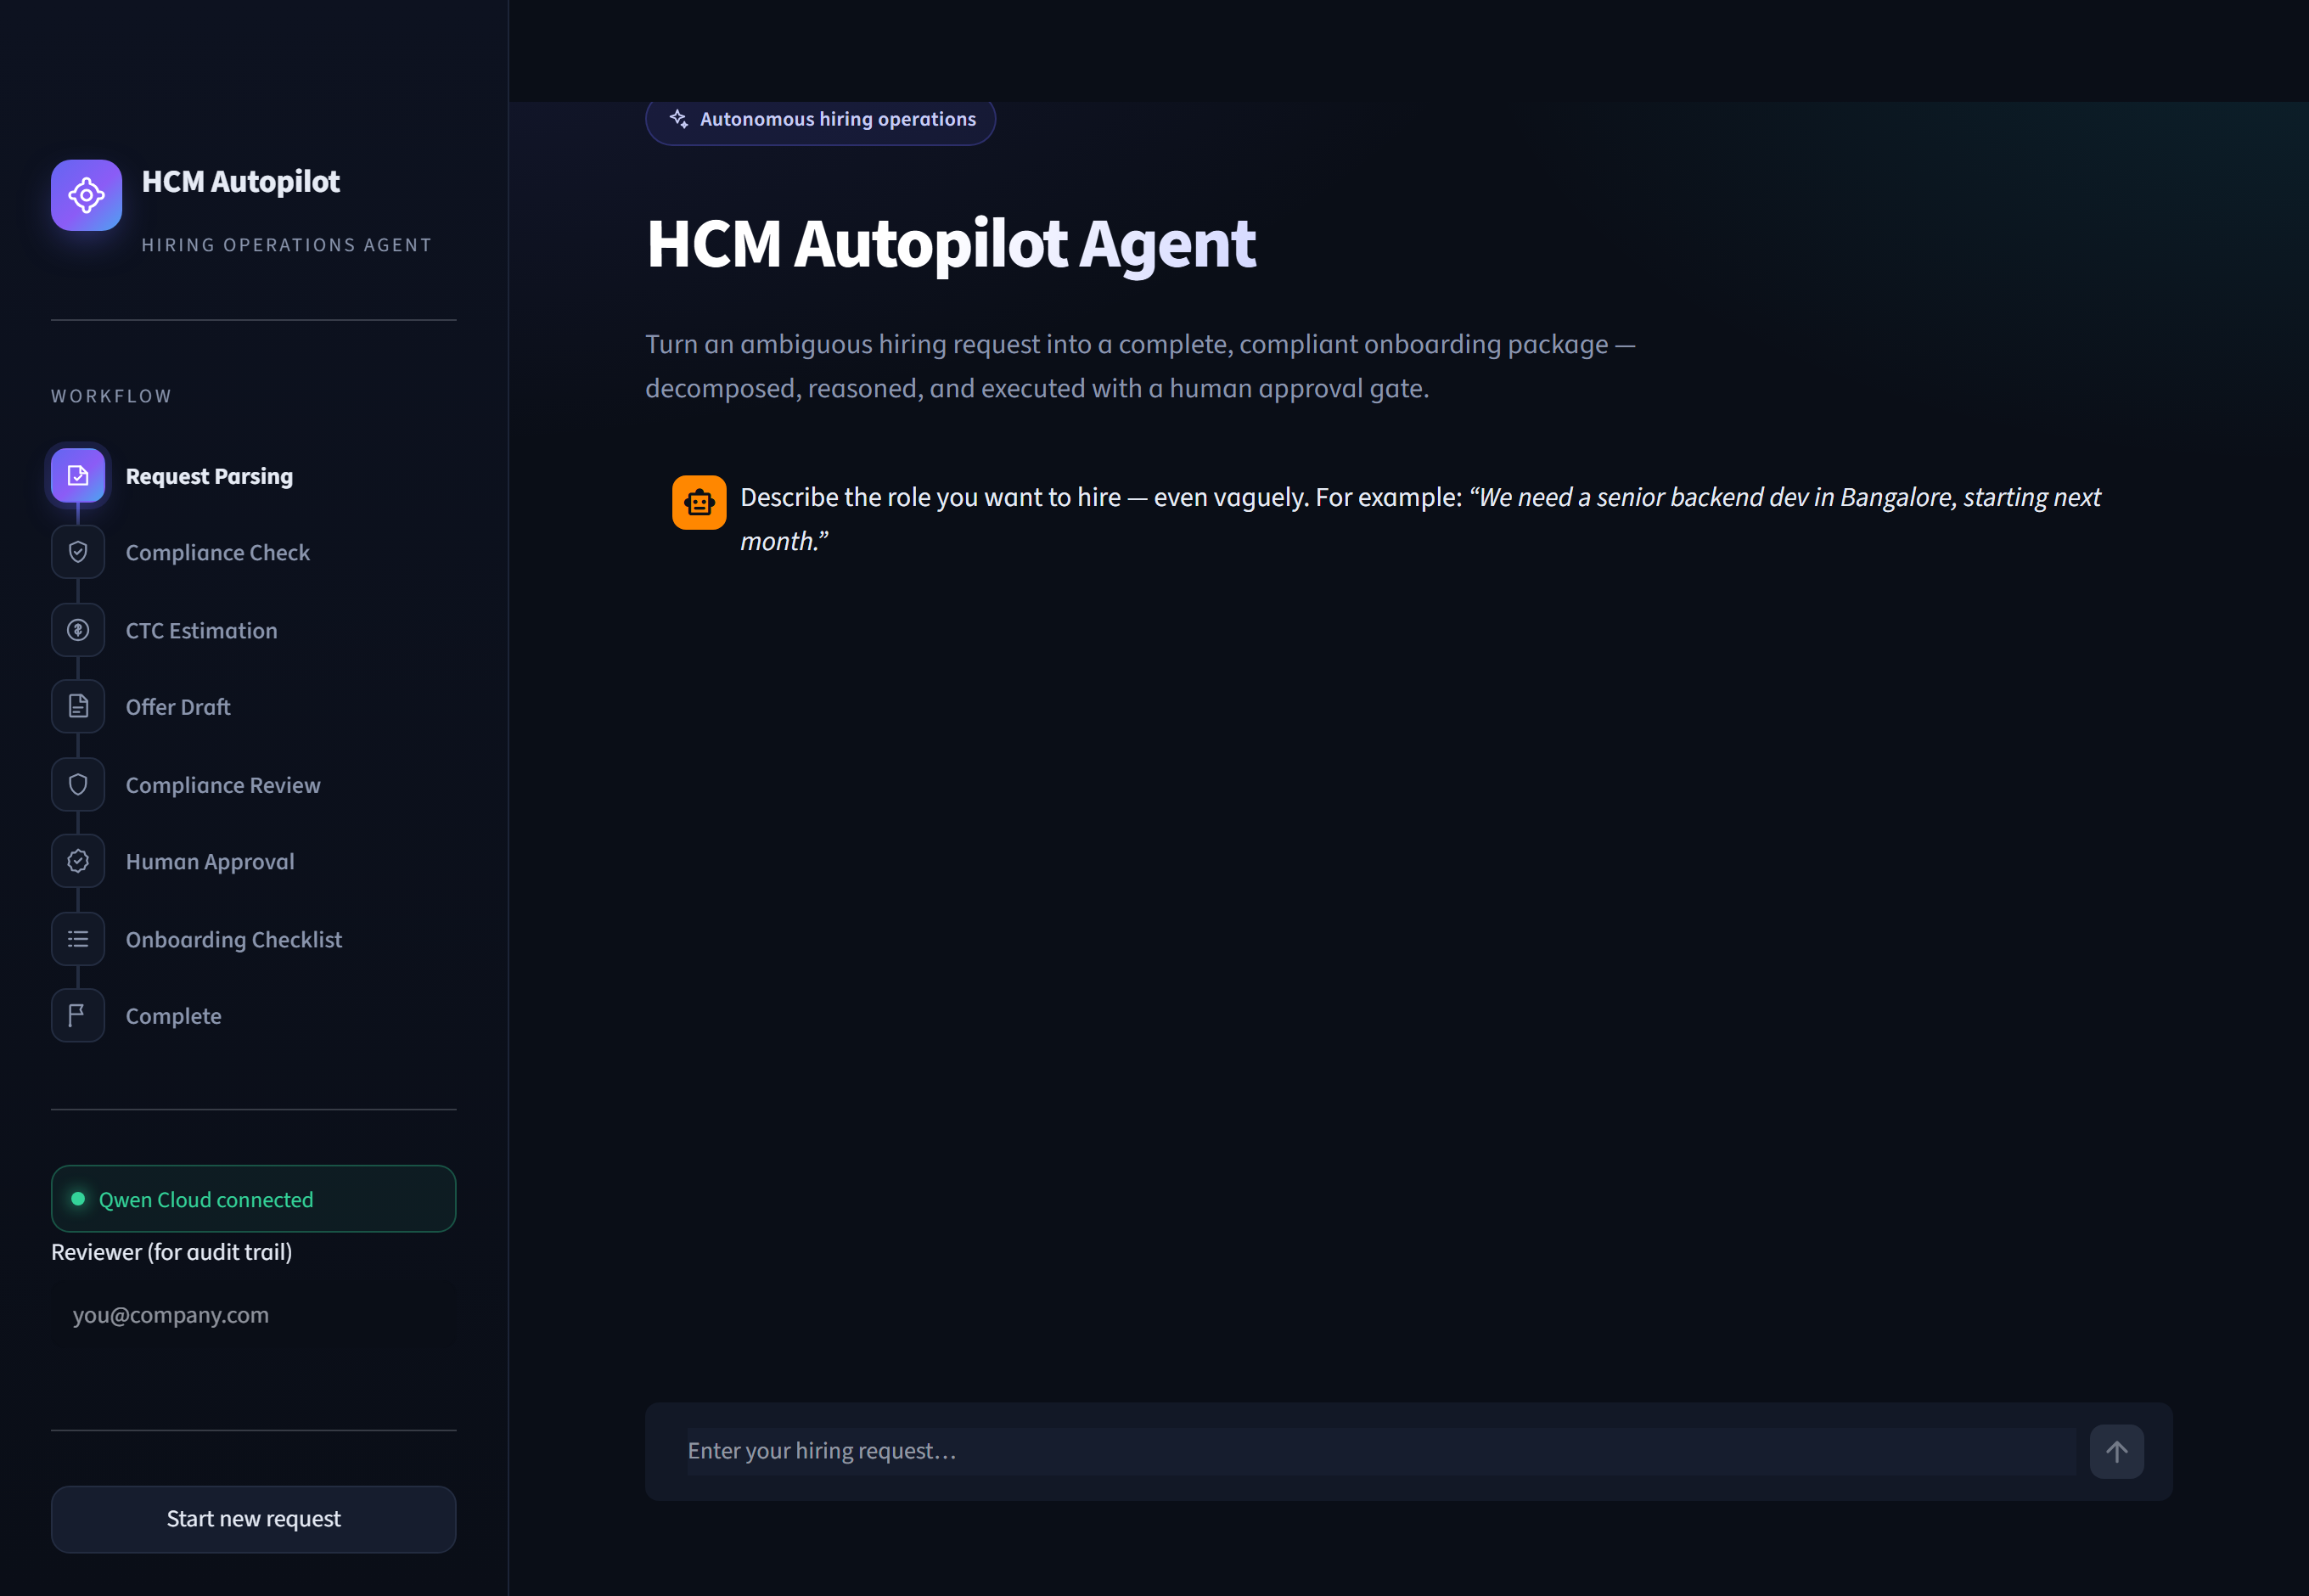
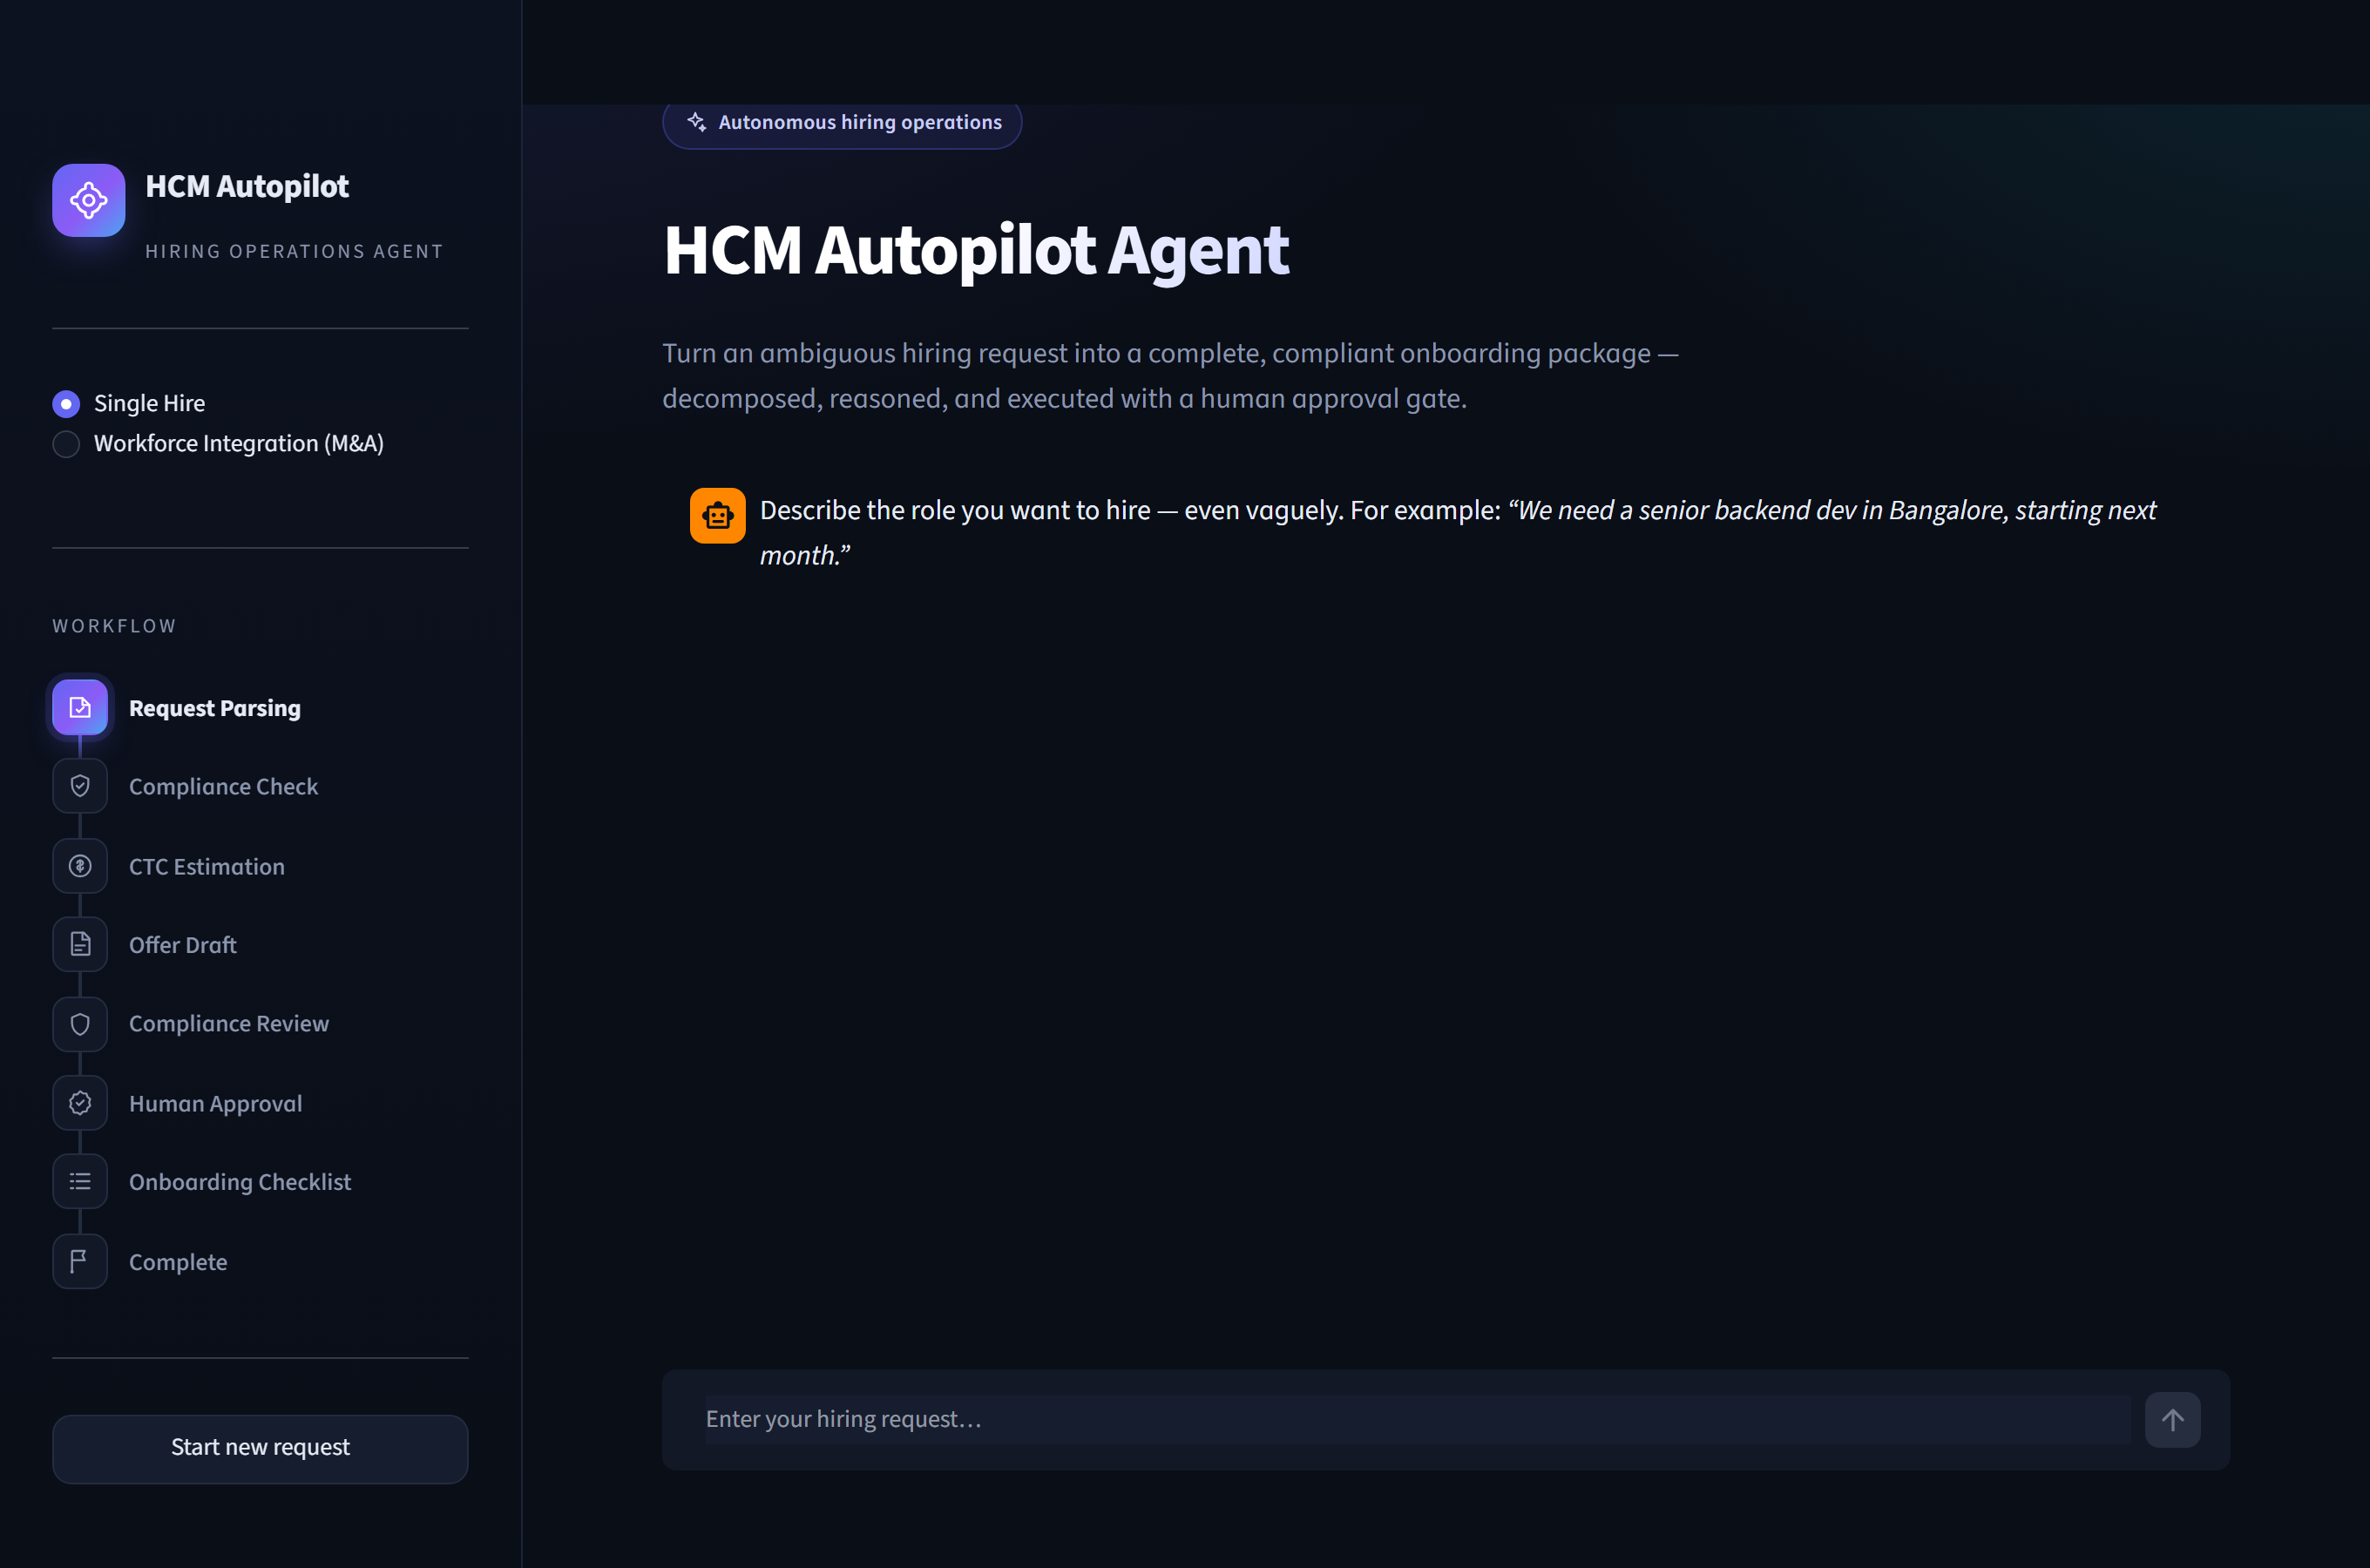
UI fixes: remove blocking Streamlit header bar; declutter sidebar
- Fully hide the default Streamlit header (Deploy button + menu) that was
  overlaying/blocking the top of the page (was only visibility:hidden before).
- Remove the "Qwen Cloud connected" status badge and the sidebar reviewer field;
  reviewer identity is now captured inline at the approval gate (audit trail
  still records it). Batch risk-flag pills inline.

diff --git a/app.py b/app.py
@@ -26,7 +26,6 @@ from src.ui.theme import (
     card_head,
     hero_html,
     icon,
-    status_html,
     stepper_html,
 )
 from src.utils.audit import recent_events
@@ -97,24 +96,9 @@ def _render_sidebar() -> None:
             orch: Orchestrator | None = st.session_state.orchestrator
             active = orch.state.phase if orch else PHASES[0]
             _html(stepper_html(PHASES, active))
-        _html('<hr class="hcm-sep"/>')
-
-        if is_configured():
-            _html(status_html(True, "Qwen Cloud connected"))
-        else:
-            _html(status_html(False, "API key missing — set .env"))
-
-        # Reviewer identity for the human-in-the-loop audit trail.
-        st.session_state.reviewer = st.text_input(
-            "Reviewer (for audit trail)",
-            value=st.session_state.get("reviewer", ""),
-            placeholder="[email redacted]",
-        )
-
         # Live observability: tokens / cost / latency across Qwen Cloud calls.
         m = METRICS.summary()
         if m["calls"]:
-            _html('<hr class="hcm-sep"/>')
             _html('<div class="hcm-side-title">Session metrics</div>')
             c1, c2 = st.columns(2)
             c1.metric("Qwen calls", m["calls"])
@@ -292,10 +276,15 @@ def _render_approval(orch: Orchestrator) -> None:
         with c2:
             _html(f'<div class="hcm-kv"><span class="k">CTC (mid)</span><span class="v">{ctc_val}</span></div>')
             _html(f'<div class="hcm-kv"><span class="k">Start date</span><span class="v">{summary.get("start_date") or "—"}</span></div>')
-        for f in summary.get("compliance_risk_flags", []):
-            _html(f'<span class="hcm-pill warn">{icon("alert",13)} {f}</span>')
+        _html(_pills(summary.get("compliance_risk_flags", []), "warn", "alert"))
 
-    st.write("")
+    # Reviewer identity is captured here (recorded in the audit trail on decision).
+    st.session_state.reviewer = st.text_input(
+        "Your name or email (recorded in the audit trail)",
+        value=st.session_state.get("reviewer", ""),
+        placeholder="[email redacted]",
+    )
+
     col_a, col_b = st.columns([1, 1])
     with col_a:
         if st.button("Approve & generate checklist", type="primary", use_container_width=True):

diff --git a/src/ui/theme.py b/src/ui/theme.py
@@ -88,9 +88,12 @@ html,body,[class*="css"]{ font-feature-settings:"cv02","cv03","cv04"; }
     var(--bg);
   color:var(--text);
 }
-/* hide default chrome for a cleaner canvas */
-#MainMenu, footer, header [data-testid="stToolbar"]{ visibility:hidden; }
+/* hide default chrome for a cleaner canvas — remove the whole header bar
+   (Deploy button + menu) so it never overlays or blocks the top of the page */
+header[data-testid="stHeader"]{ display:none !important; }
+#MainMenu, footer{ display:none !important; }
 [data-testid="stDecoration"]{ display:none; }
+[data-testid="stToolbar"]{ display:none !important; }
 
 .block-container{ padding-top:2.2rem; max-width:1120px; }
 